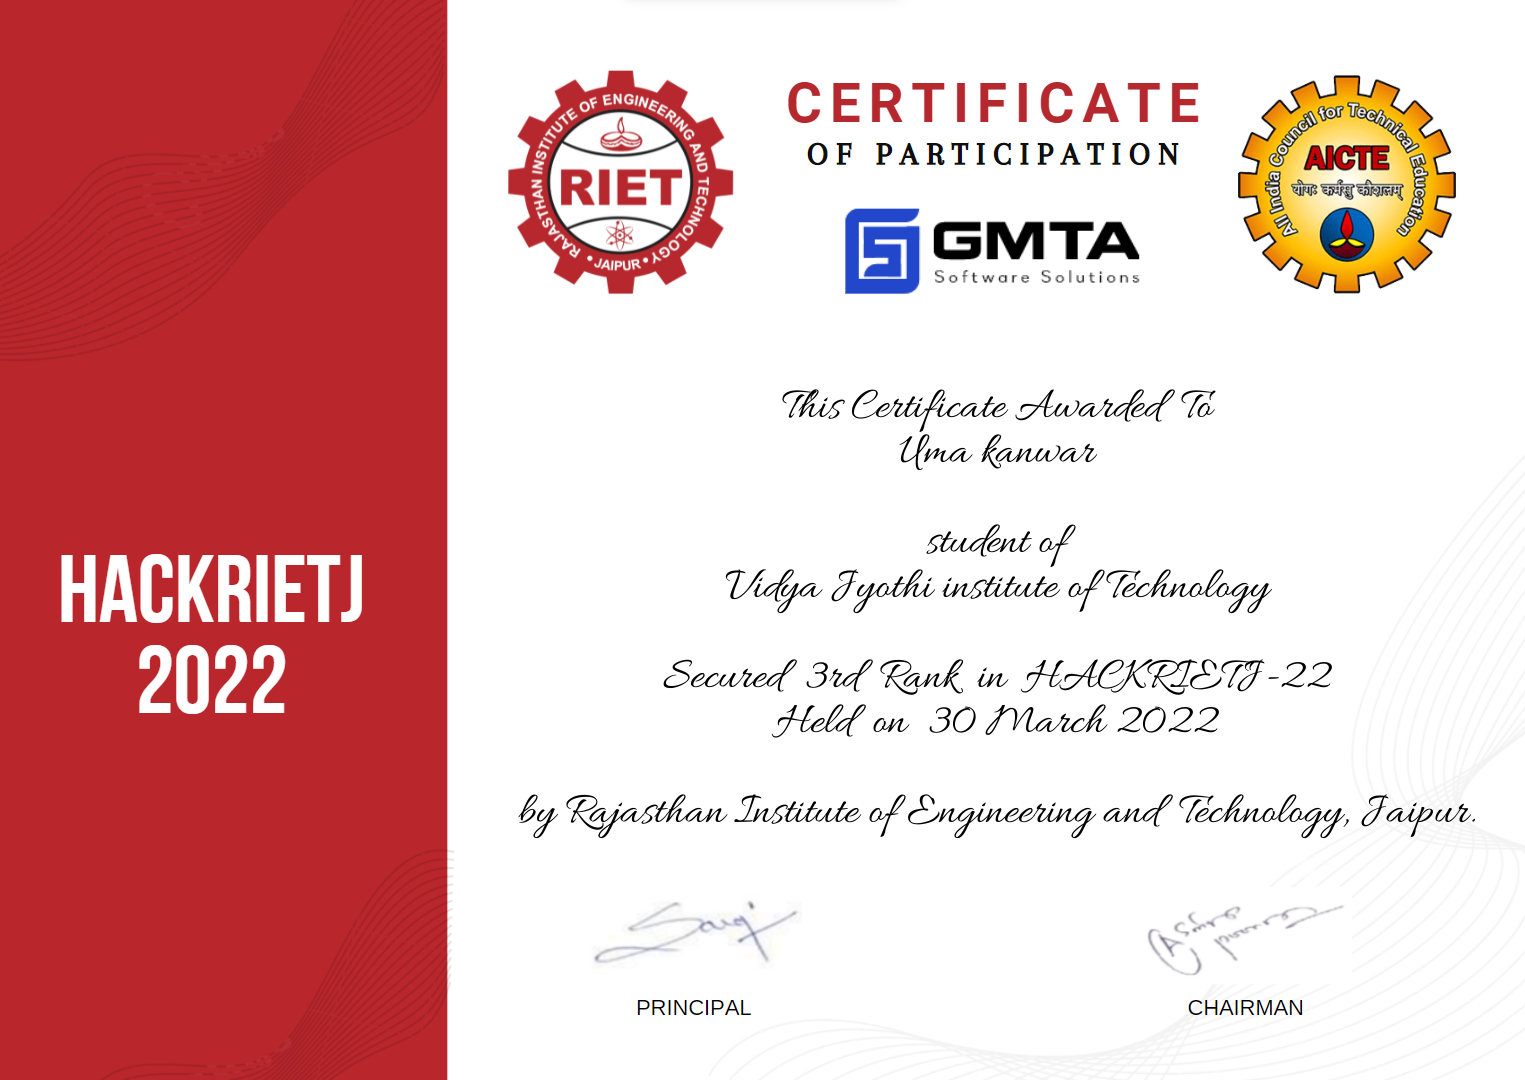
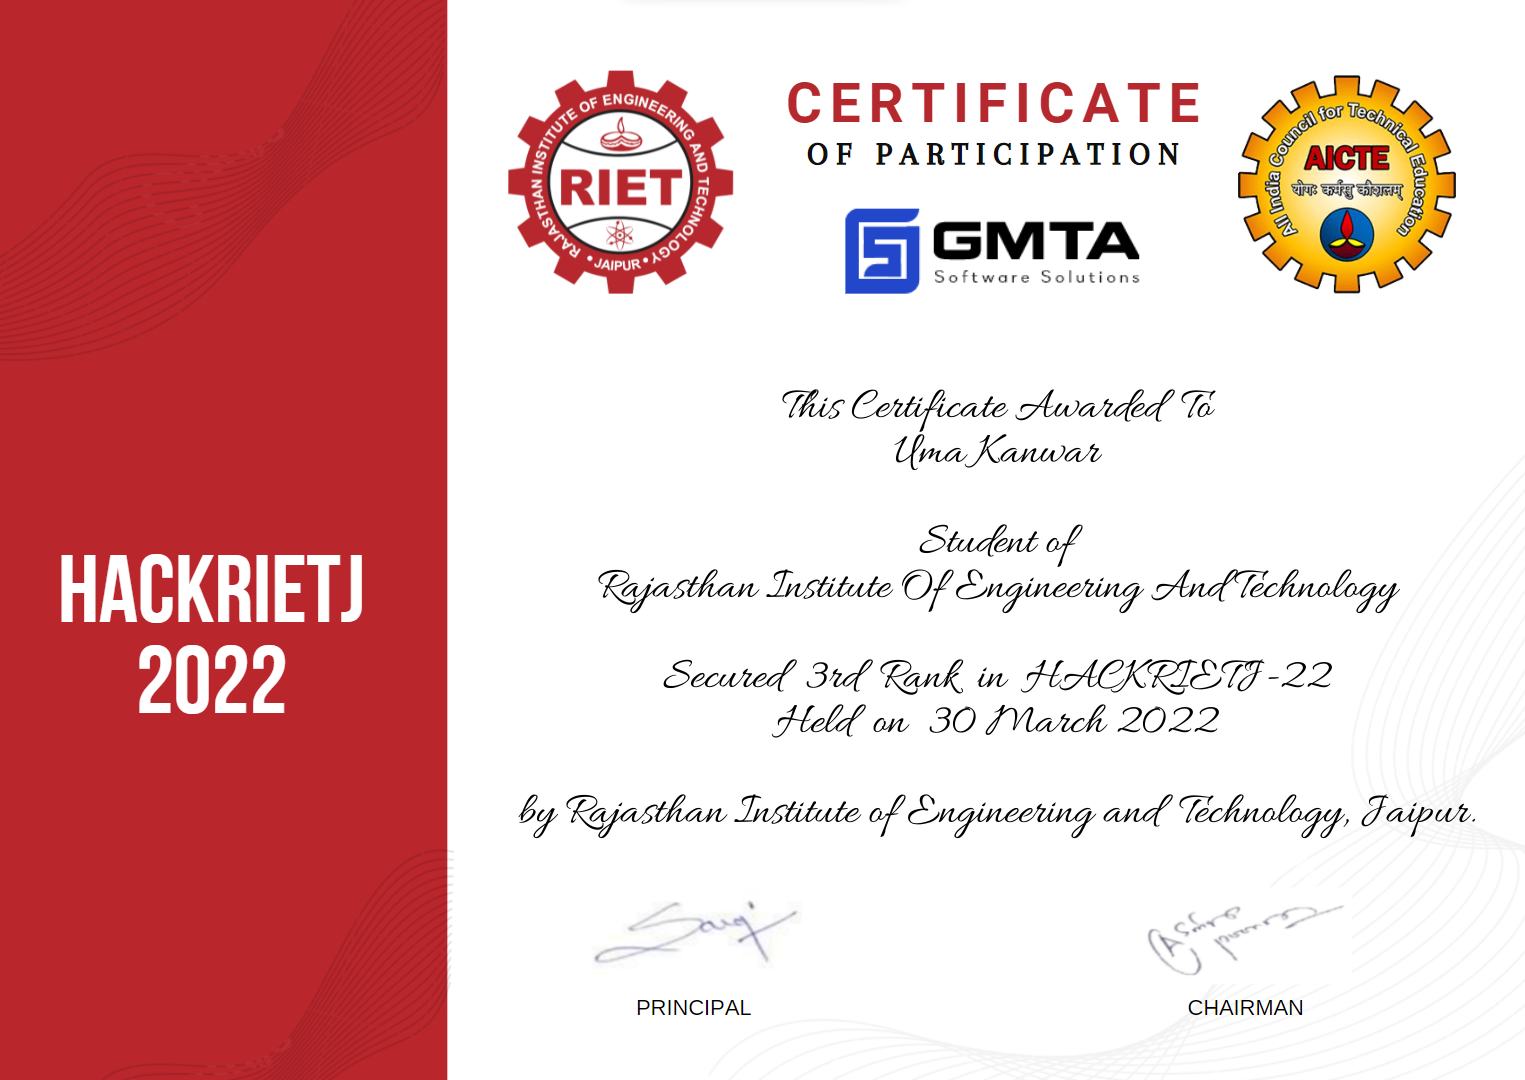
clg renamed

Changed region(s): [[0.4007, 0.4889, 0.9246, 0.5806], [0.5856, 0.3972, 0.7397, 0.4278]]

diff --git a/HACKRIETJ-2022/Bulk Certificate Automation/Participation 2022.py b/HACKRIETJ-2022/Bulk Certificate Automation/Participation 2022.py
@@ -69,16 +69,16 @@ def create(listed, desig):
 
 
 # print('Students... ', namelist[:-1])
-create(namelist[:-1], 'Student')
+# create(namelist[:-1], 'Student')
 
 # print('Mentor... ', [namelist[-1]])
-create([namelist[-1]], 'Mentor')
+# create([namelist[-1]], 'Mentor')
 
 
 wind = {
         0 : (['Preethika N C', 'Subiksha T', 'Swetha Sridevi N'], 'Bannari Amman Institute Of Technology', '1st'),
         1 : (['Narottam Tomar', 'Akshay Pareek', 'Prabhat Singh', 'Vicky Kumar'], 'Rajasthan Institute Of Engineering And Technology', '2nd'),
-        2 : (['Mahipal Pareek', 'Uma kanwar'], 'Vidya Jyothi institute of Technology', '3rd')
+        2 : (['Mahipal Pareek', 'Uma Kanwar'], 'Rajasthan Institute Of Engineering And Technology', '3rd')
        }
 
 for i in range(len(wind)):
@@ -88,7 +88,7 @@ for i in range(len(wind)):
                 This Certificate Awarded  To
                 {wind[i][0][j]}
 
-                student of
+                Student of
                 {wind[i][1]}
 
                 Secured  {wind[i][2]}  Rank  in  HACKRIETJ-22
